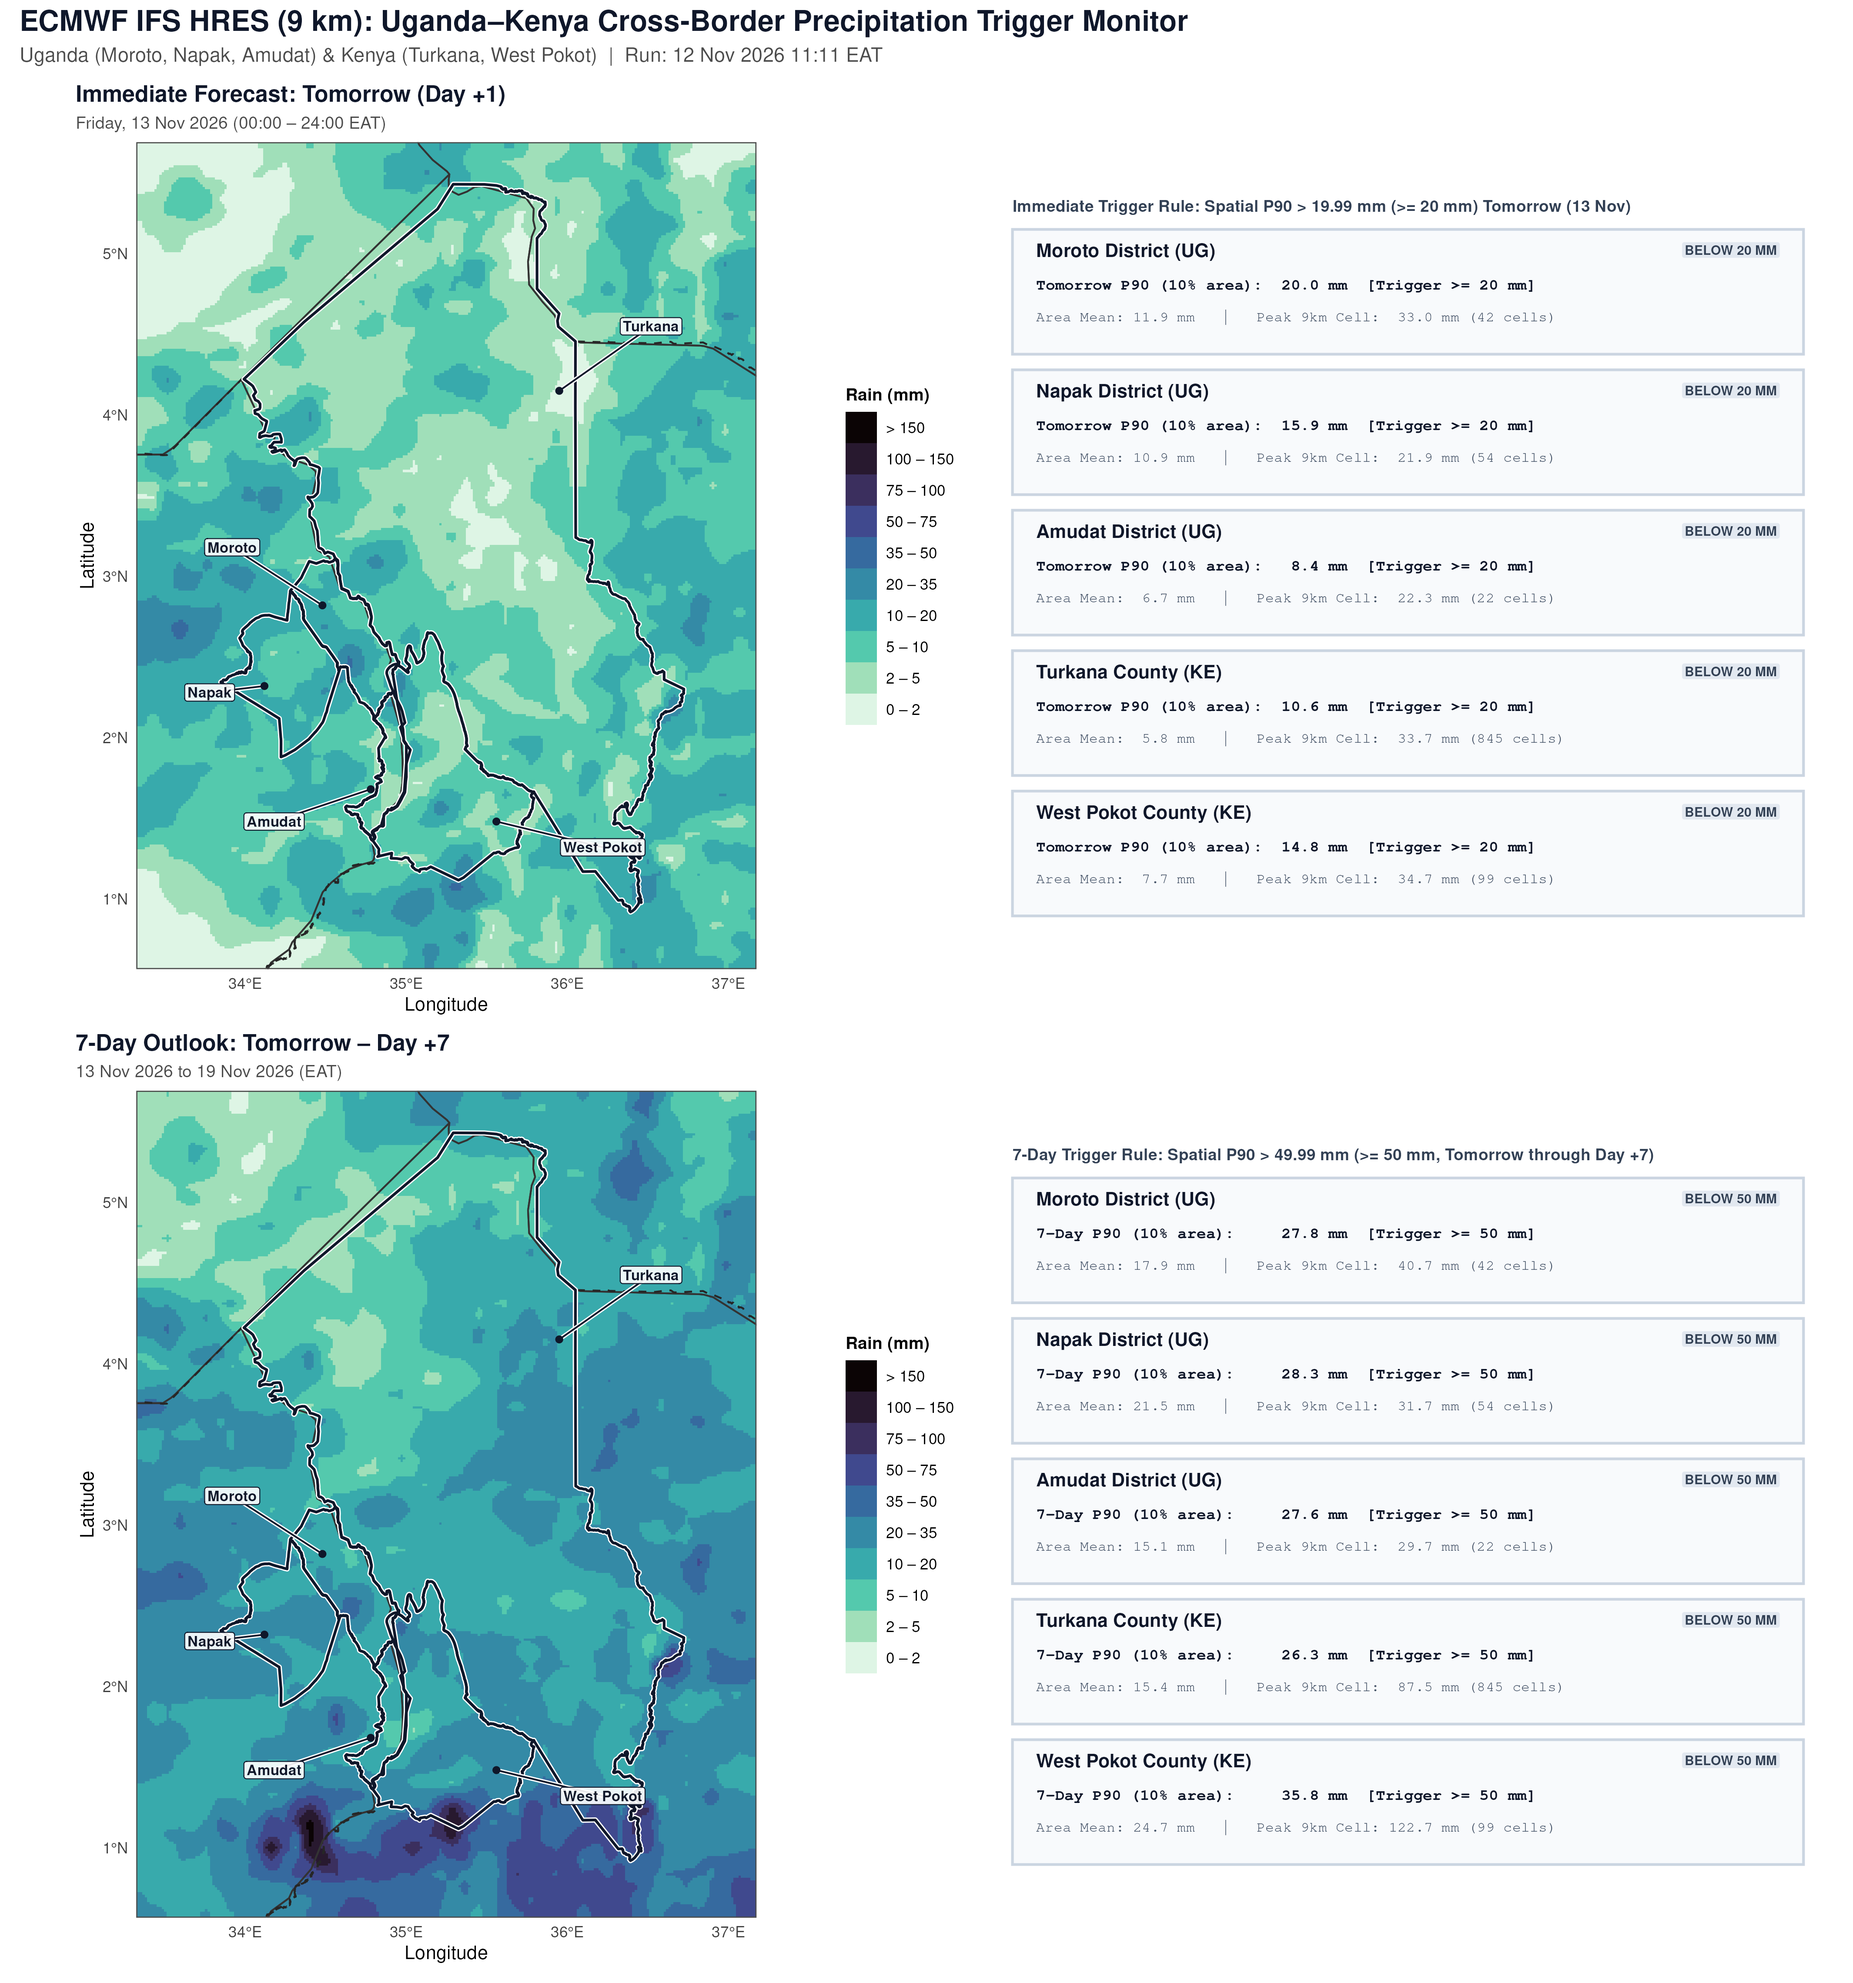
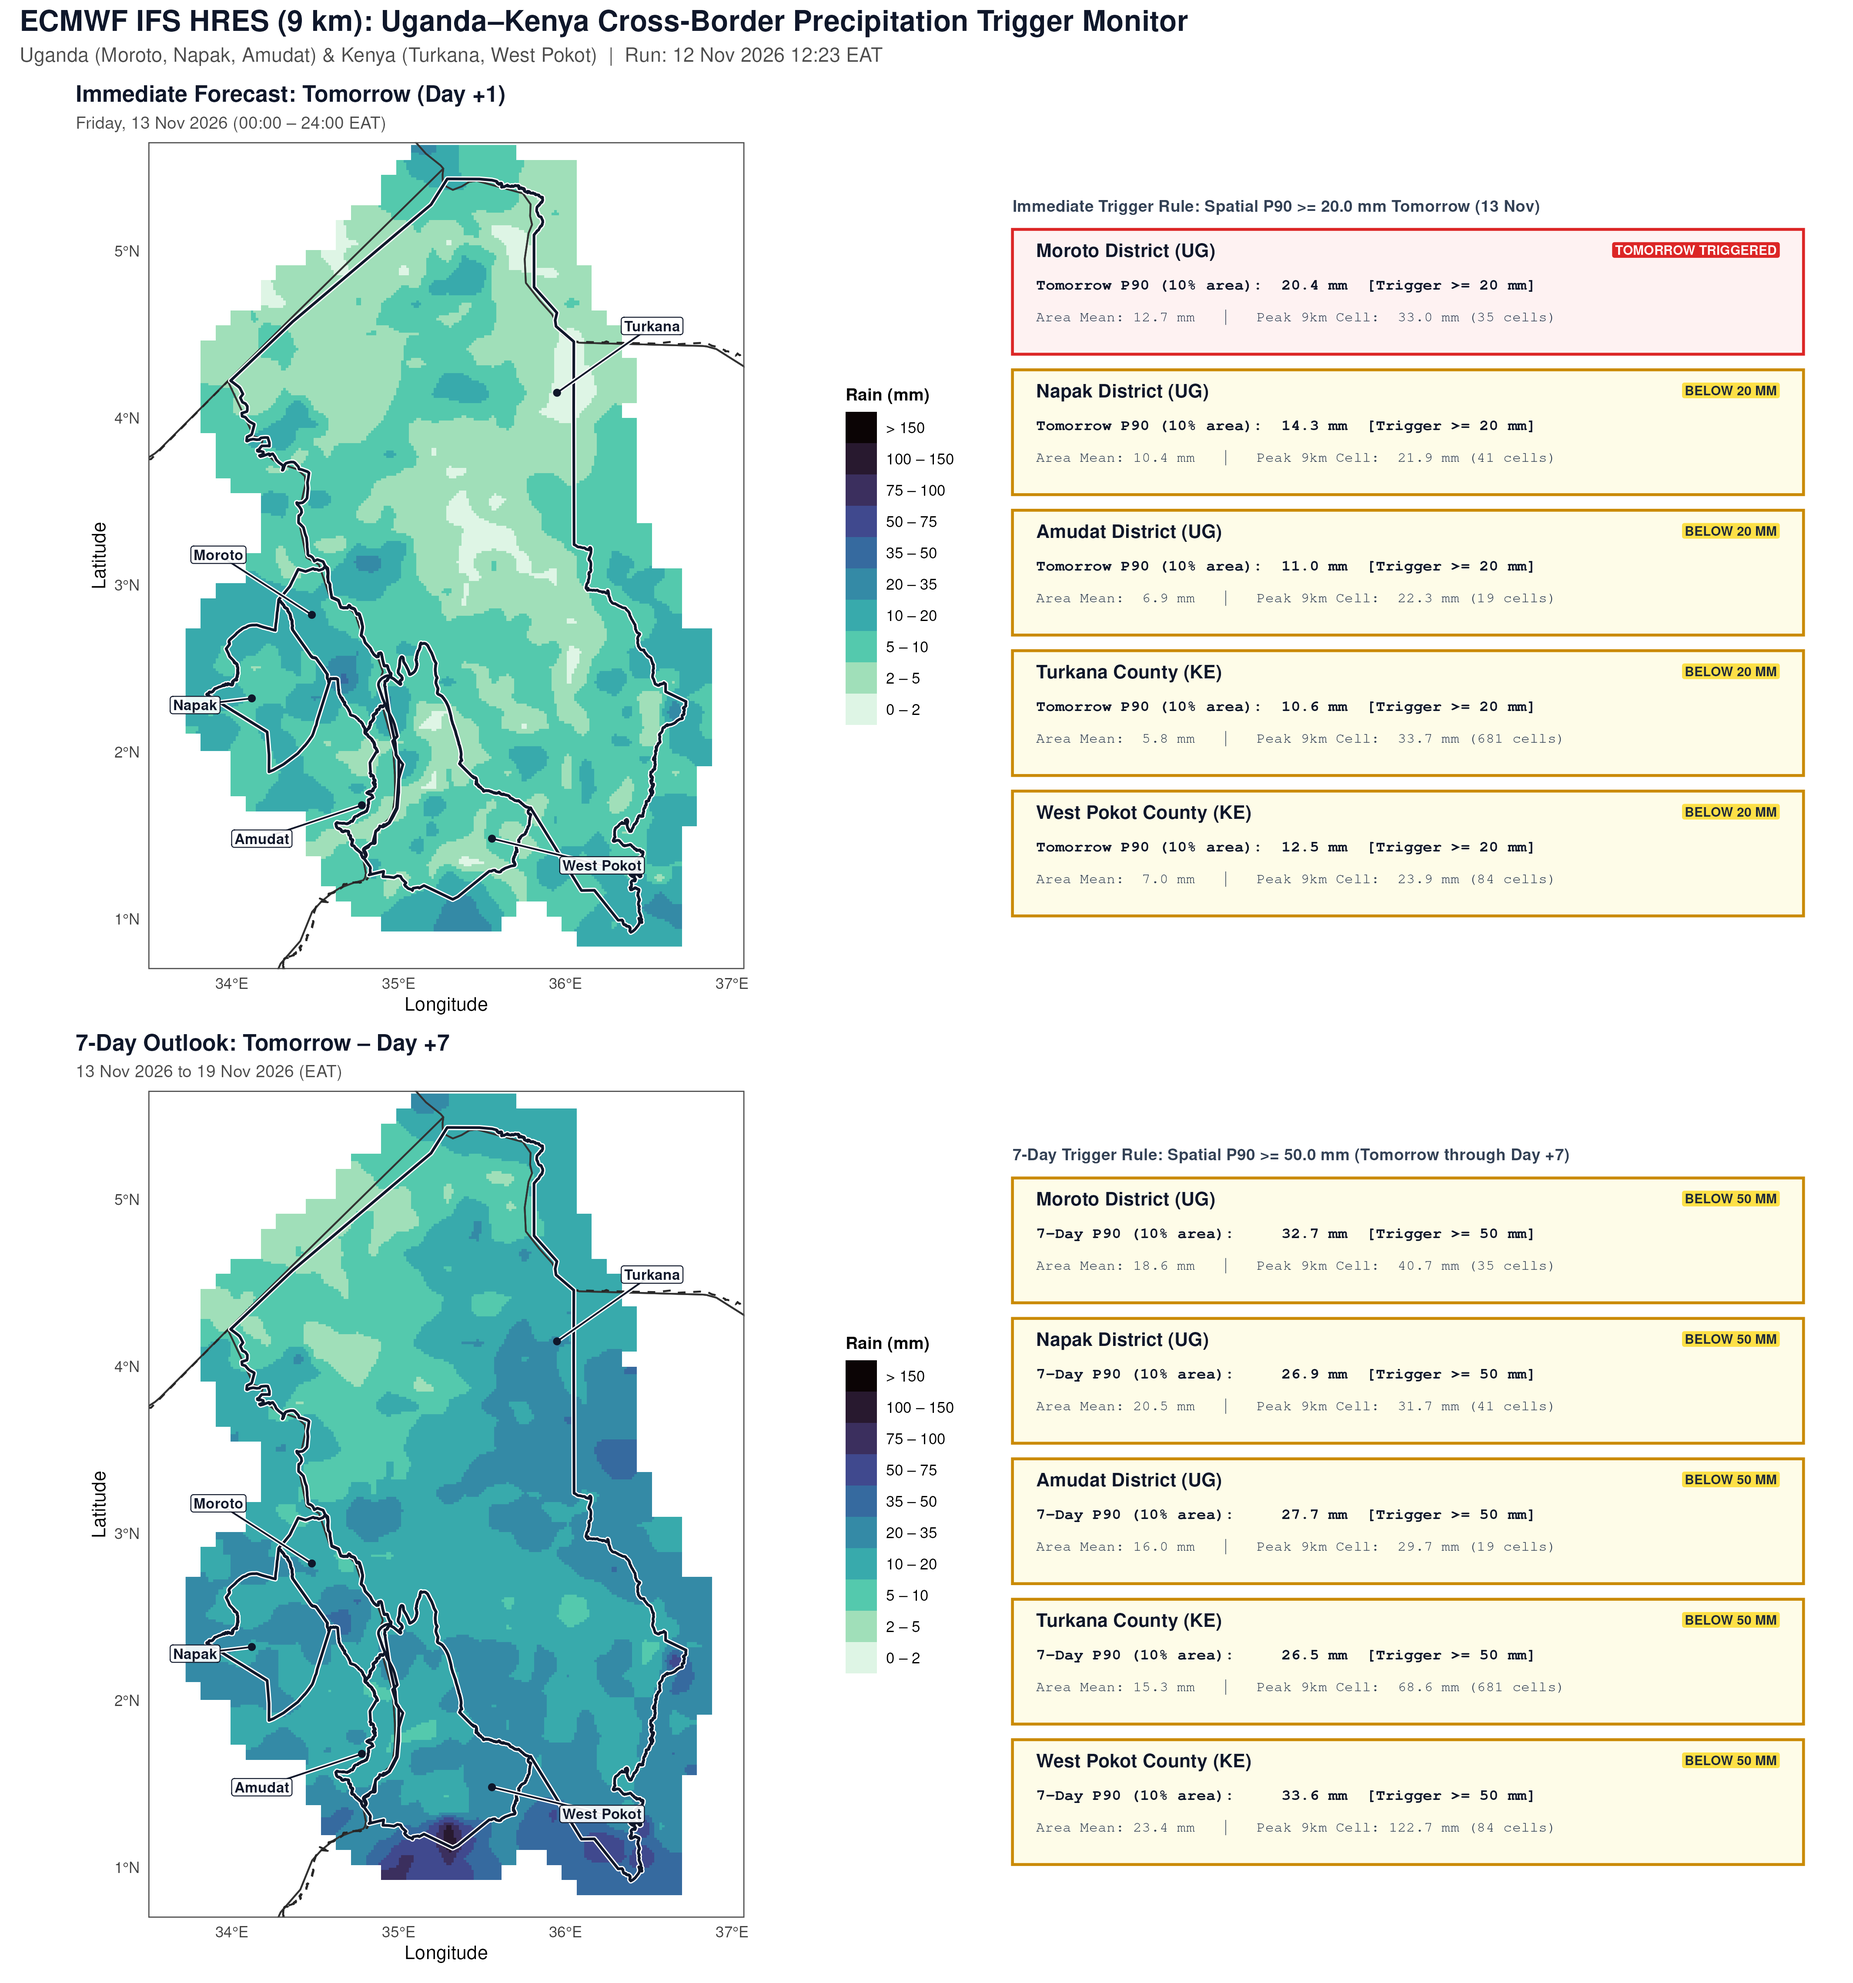
deploy: 6cf2d4165e0c383c78dae4094ee02abc69510fdb

diff --git a/index.html b/index.html
@@ -1,1 +1,1 @@
-<!DOCTYPE html><html><head><meta charset='utf-8'><title>Karamoja–Turkana Trigger Monitor</title><style>body{font-family:sans-serif;margin:24px;background:#F8FAFC;color:#0F172A;max-width:1280px;}img{width:100%;height:auto;border:1px solid #CBD5E1;border-radius:6px;background:white;}</style></head><body><h2>Uganda–Kenya Cross-Border IFS HRES Trigger Dashboard</h2><p>Areas: Moroto, Napak, Amudat (UG) &amp; Turkana, West Pokot (KE) | Last updated: 2026-11-12 11:11 EAT (08:11 UTC) | <a href='trigger_feed.xml'>RSS Trigger Feed</a></p><img src='karamoja_ifs_hres_trigger_dashboard.png?v=1794471093' alt='Cross-Border Forecast Dashboard'/></body></html>
+<!DOCTYPE html><html><head><meta charset='utf-8'><title>Karamoja–Turkana Trigger Monitor</title><style>body{font-family:sans-serif;margin:24px;background:#F8FAFC;color:#0F172A;max-width:1280px;}img{width:100%;height:auto;border:1px solid #CBD5E1;border-radius:6px;background:white;}</style></head><body><h2>Uganda–Kenya Cross-Border IFS HRES Trigger Dashboard</h2><p>Areas: Moroto, Napak, Amudat (UG) &amp; Turkana, West Pokot (KE) | Last updated: 2026-11-12 12:23 EAT (09:23 UTC) | <a href='trigger_feed.xml'>RSS Trigger Feed</a></p><img src='karamoja_ifs_hres_trigger_dashboard.png?v=1794475401' alt='Cross-Border Forecast Dashboard'/></body></html>
